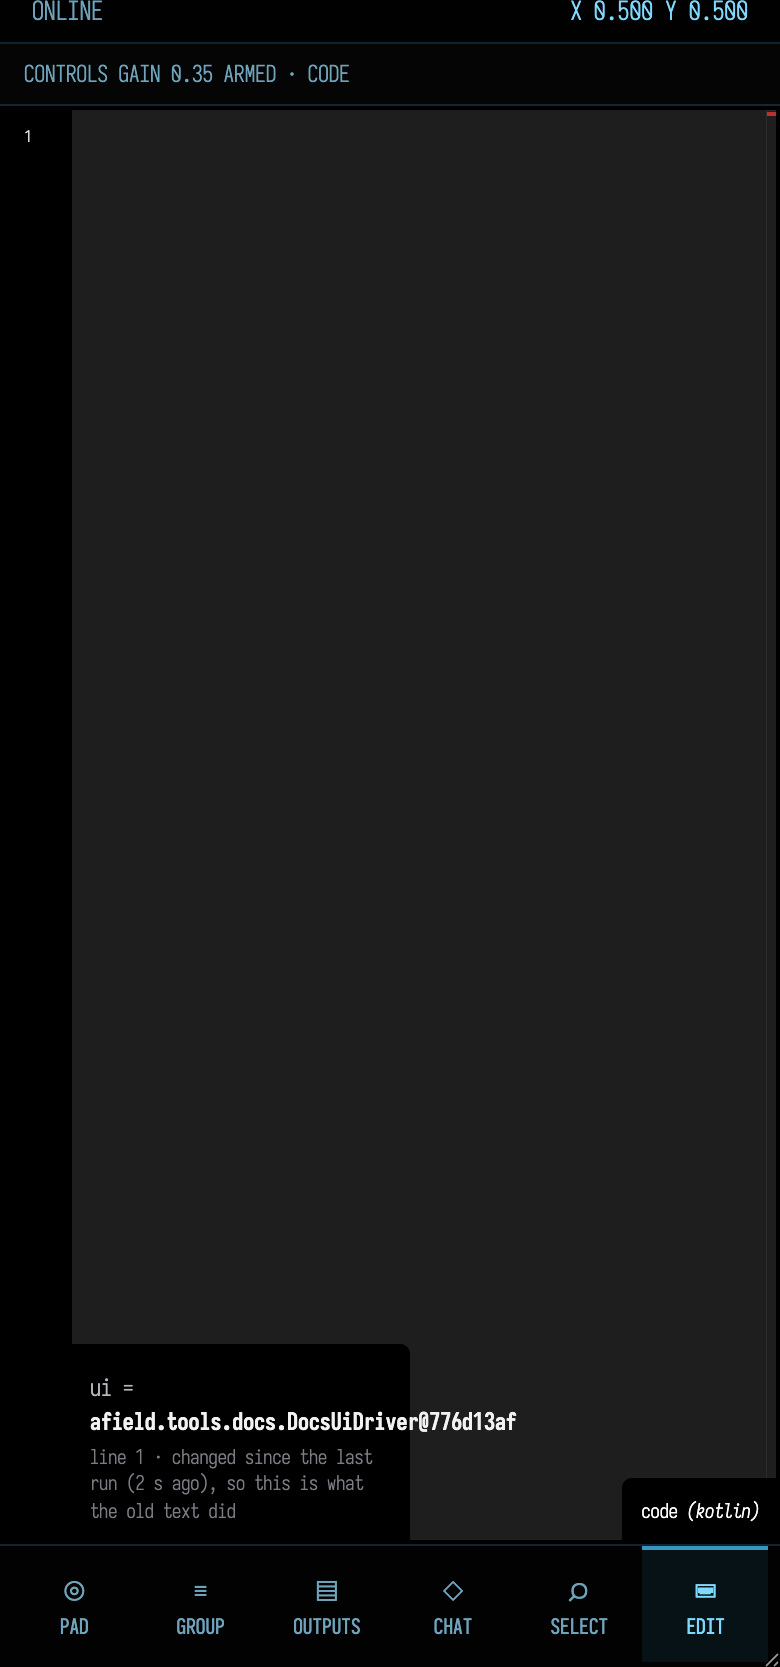
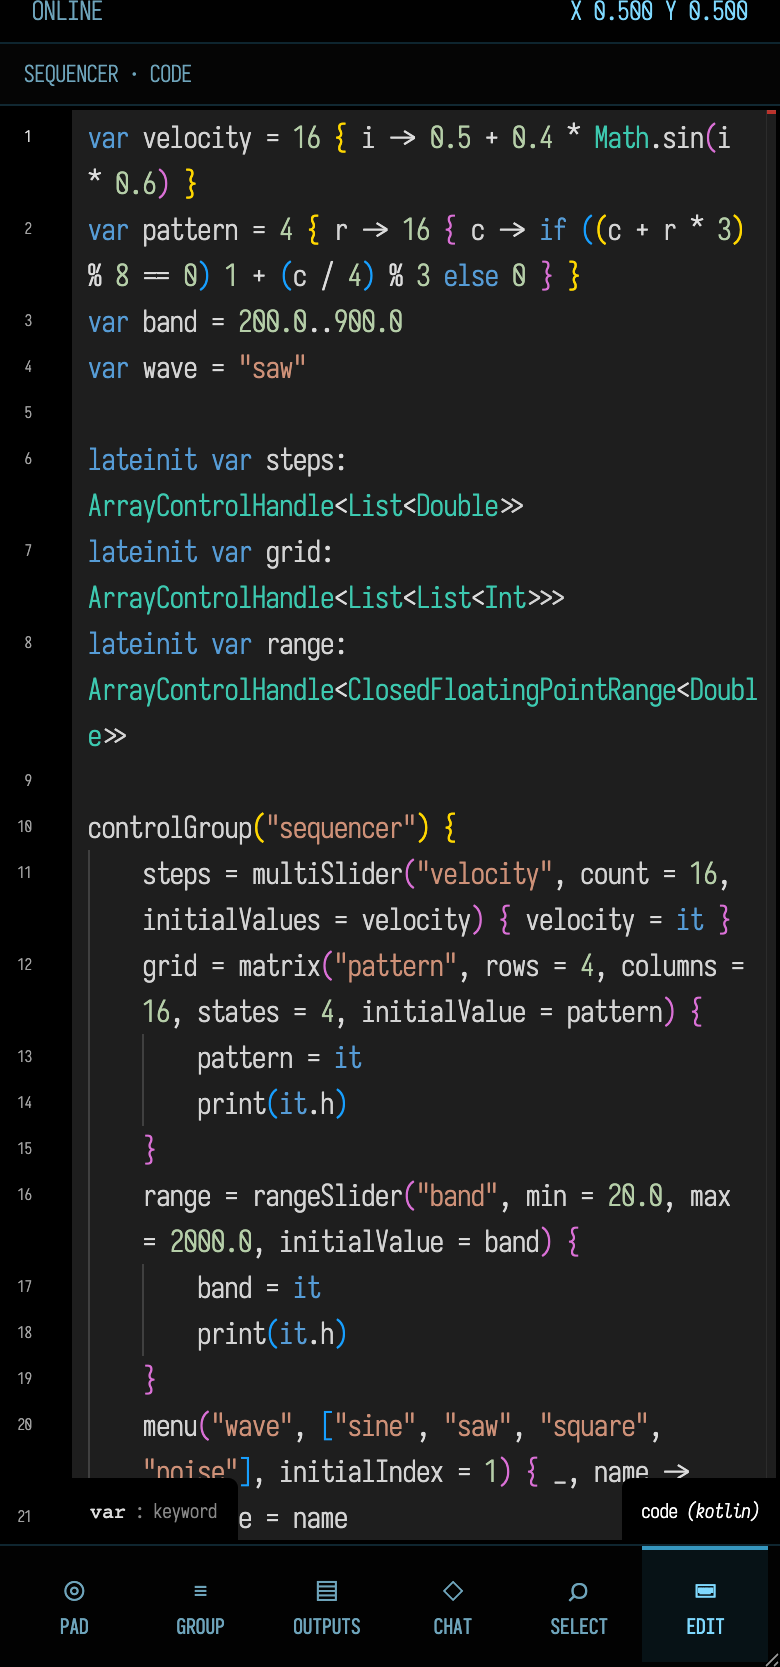
mobile_controllers: say what the Pad does, document the URL parameters, fix the Edit capture
The page never said where the Pad's values go: it scrubs the number under the
editor cursor (the OSC-editor path, osc-editor -> monacoRunOscEditorCommand),
with save/restore/lock/unlock/launch/stop acting on the edited box. New section
covers that, plus a table of the ?page/axis/send/debounceMs/maxExecutionMs/
file|document parameters read by controllers.js and controllers.kt.

The Edit capture showed an empty editor with a "ui = DocsUiDriver" hover (the
docs drive box itself); it now opens on the sequencer box from the
phone_sequencer transcript. osc.md links to the Pad section.

diff --git a/public/docs/mobile_controllers.md b/public/docs/mobile_controllers.md
@@ -34,7 +34,7 @@ Replace `FIELD-HOST` with the machine's LAN name or address and `YOUR-DOCUMENT` 
 
 </div>
 
-Below are Pad, Group, Outputs and Edit at iPhone size, each showing a box that publishes a small `controlGroup(...)` and one output channel. Chat and Select have their own sections further down.
+Below are Pad, Group and Outputs at iPhone size, showing a box that publishes a small `controlGroup(...)` and one output channel. Chat and Select have their own sections further down.
 
 ```diffstatic_runner {data-lang=kotlin capture="ui" region="window" clip-selector="#docs-mobile-controller-pad" screenshot="assets/mobile_controllers/pad.png" alt="The Pad tab of the Field mobile controller at iPhone size" padding="0" wait="0" timeout="120" embed=true hidden=true name="mobile-controller-pad"}
 ui.eval("""
@@ -180,18 +180,15 @@ ui.waitForSelector("#docs-mobile-controller-outputs", 8000.0)
 ui.pause(6000)
 ```
 
-```diffstatic_runner {data-lang=kotlin capture="ui" region="window" clip-selector="#docs-mobile-controller-edit" screenshot="assets/mobile_controllers/edit.png" alt="The Edit tab of the Field mobile controller with Monaco open on a box's code at iPhone size" padding="0" wait="0" timeout="120" embed=true hidden=true name="mobile-controller-edit"}
-// A box with a few live controls, open in the phone's editor.
-controlGroup("controls") {
-    slider("gain", min = 0.0, max = 1.0, step = 0.01, initialValue = 0.35) { }
-    checkbox("armed", initialValue = true) { }
-}
+The **Edit** tab, open on the sequencer's code:
+
+```diffstatic_runner {data-lang=kotlin capture="ui" region="window" clip-selector="#docs-mobile-controller-edit" transcript="../../dev_docs/agents/transcripts/docs_capture/phone_sequencer.yaml" screenshot="assets/mobile_controllers/edit.png" alt="The Edit tab of the Field mobile controller at iPhone size, with Monaco open on the Kotlin of the box named sequencer" padding="0" wait="0" timeout="180" embed=true hidden=true name="mobile-controller-edit"}
 ui.eval("""
     document.getElementById("docs-mobile-controller-edit")?.remove()
-    const driveBox = [...document.querySelectorAll(".box")].find(box => box.uid === "__docs_drive__" || box.name === "__docs_drive__")
-    if (driveBox && typeof window.selectBox === "function") {
+    const seq = [...document.querySelectorAll(".box")].find(box => box.uid === "seq_box" || box.name === "sequencer")
+    if (seq && typeof window.selectBox === "function") {
         ;(window.selectedList || []).slice().forEach(box => window.deselectBox(box))
-        window.selectBox(driveBox)
+        window.selectBox(seq)
         window.selectionContextChanged?.()
     }
     const params = new URLSearchParams(window.location.search)
@@ -207,6 +204,36 @@ ui.eval("""
 ui.waitForSelector("#docs-mobile-controller-edit", 8000.0)
 ui.pause(10000)
 ```
+
+## The Pad scrubs a number in your code
+
+The Pad does not send values to a box. It edits code, the way Field's [OSC editor](osc.md#fields-own-osc-editor) does: dragging replaces the number under the editor's cursor with the pad's value and, after a short pause, runs the box again. Put the cursor on a constant, either in the desktop editor or in the phone's **Edit** tab, then drag.
+
+- **Value.** In absolute mode the number becomes the finger's position, from 0 at the bottom (or left) edge to 1 at the top (or right). In delta mode the drag's movement is added to it. *Both* does each in turn.
+- **XY.** With the XY axis, a cursor on either number of a pair such as `Vector2f(0.2f, 0.7f)` sets both numbers at once.
+- **Save** and **Restore** remember the number under the cursor and put it back. **Lock** (⌖) pins the pad to that number, so it keeps scrubbing it after the cursor moves on; **Unlock** releases it.
+- **Launch** and **Stop** launch and stop the box being edited.
+
+The Pad works without the OSC editor being switched on in the welcome page; it talks to Field over the controller's own connection.
+
+## Link straight to a tab
+
+The page reads its settings from the address, so a Home Screen bookmark can open exactly the surface you want:
+
+<div class="field-data-table" markdown>
+
+| Parameter | Values | Default |
+| --- | --- | --- |
+| `file` (or `document`) | The document's name | The active document |
+| `page` | `pad`, `controls` (Group), `outputs`, `chat`, `select`, `editor` (Edit) | `pad` |
+| `axis` | `y`, `x`, `xy` | `y` |
+| `send` | `absolute`, `delta`, `both` | `absolute` |
+| `debounceMs` | How long the Pad waits after the last change before running the box, 0 to 5000 | 200 |
+| `maxExecutionMs` | During a continuous drag, the longest the Pad waits before running the box anyway, 0 to 60000 (0 waits for the drag to pause) | 750 |
+
+</div>
+
+For example, `/controllers?file=YOUR-DOCUMENT&page=controls` opens on the Group tab.
 
 ## Chat without the desktop
 

diff --git a/public/docs/osc.md b/public/docs/osc.md
@@ -589,8 +589,8 @@ numeric argument and, after a short pause, runs the box being edited again, so a
 scrub a constant in your code. The *launch* and *stop* addresses (`/field/launch`, `/field/stop`)
 launch and stop the box being edited. It listens on 9001 by default, one up from `osc()`'s 9000.
 
-See also: [Mobile controllers](mobile_controllers.md) for building a control surface in Field
-itself, [OSCQuery](oscquery.md), and [Sonic Pi](sonic_pi.md).
+See also: [Field from your phone](mobile_controllers.md), whose [Pad](mobile_controllers.md#the-pad-scrubs-a-number-in-your-code) drives this same number-under-the-cursor editing from a browser, plus
+[OSCQuery](oscquery.md) and [Sonic Pi](sonic_pi.md).
 
 ??? aside "Which peers were run while writing this page"
     The Field side of every exchange here was run against python-osc 1.10.2, an OSC implementation
